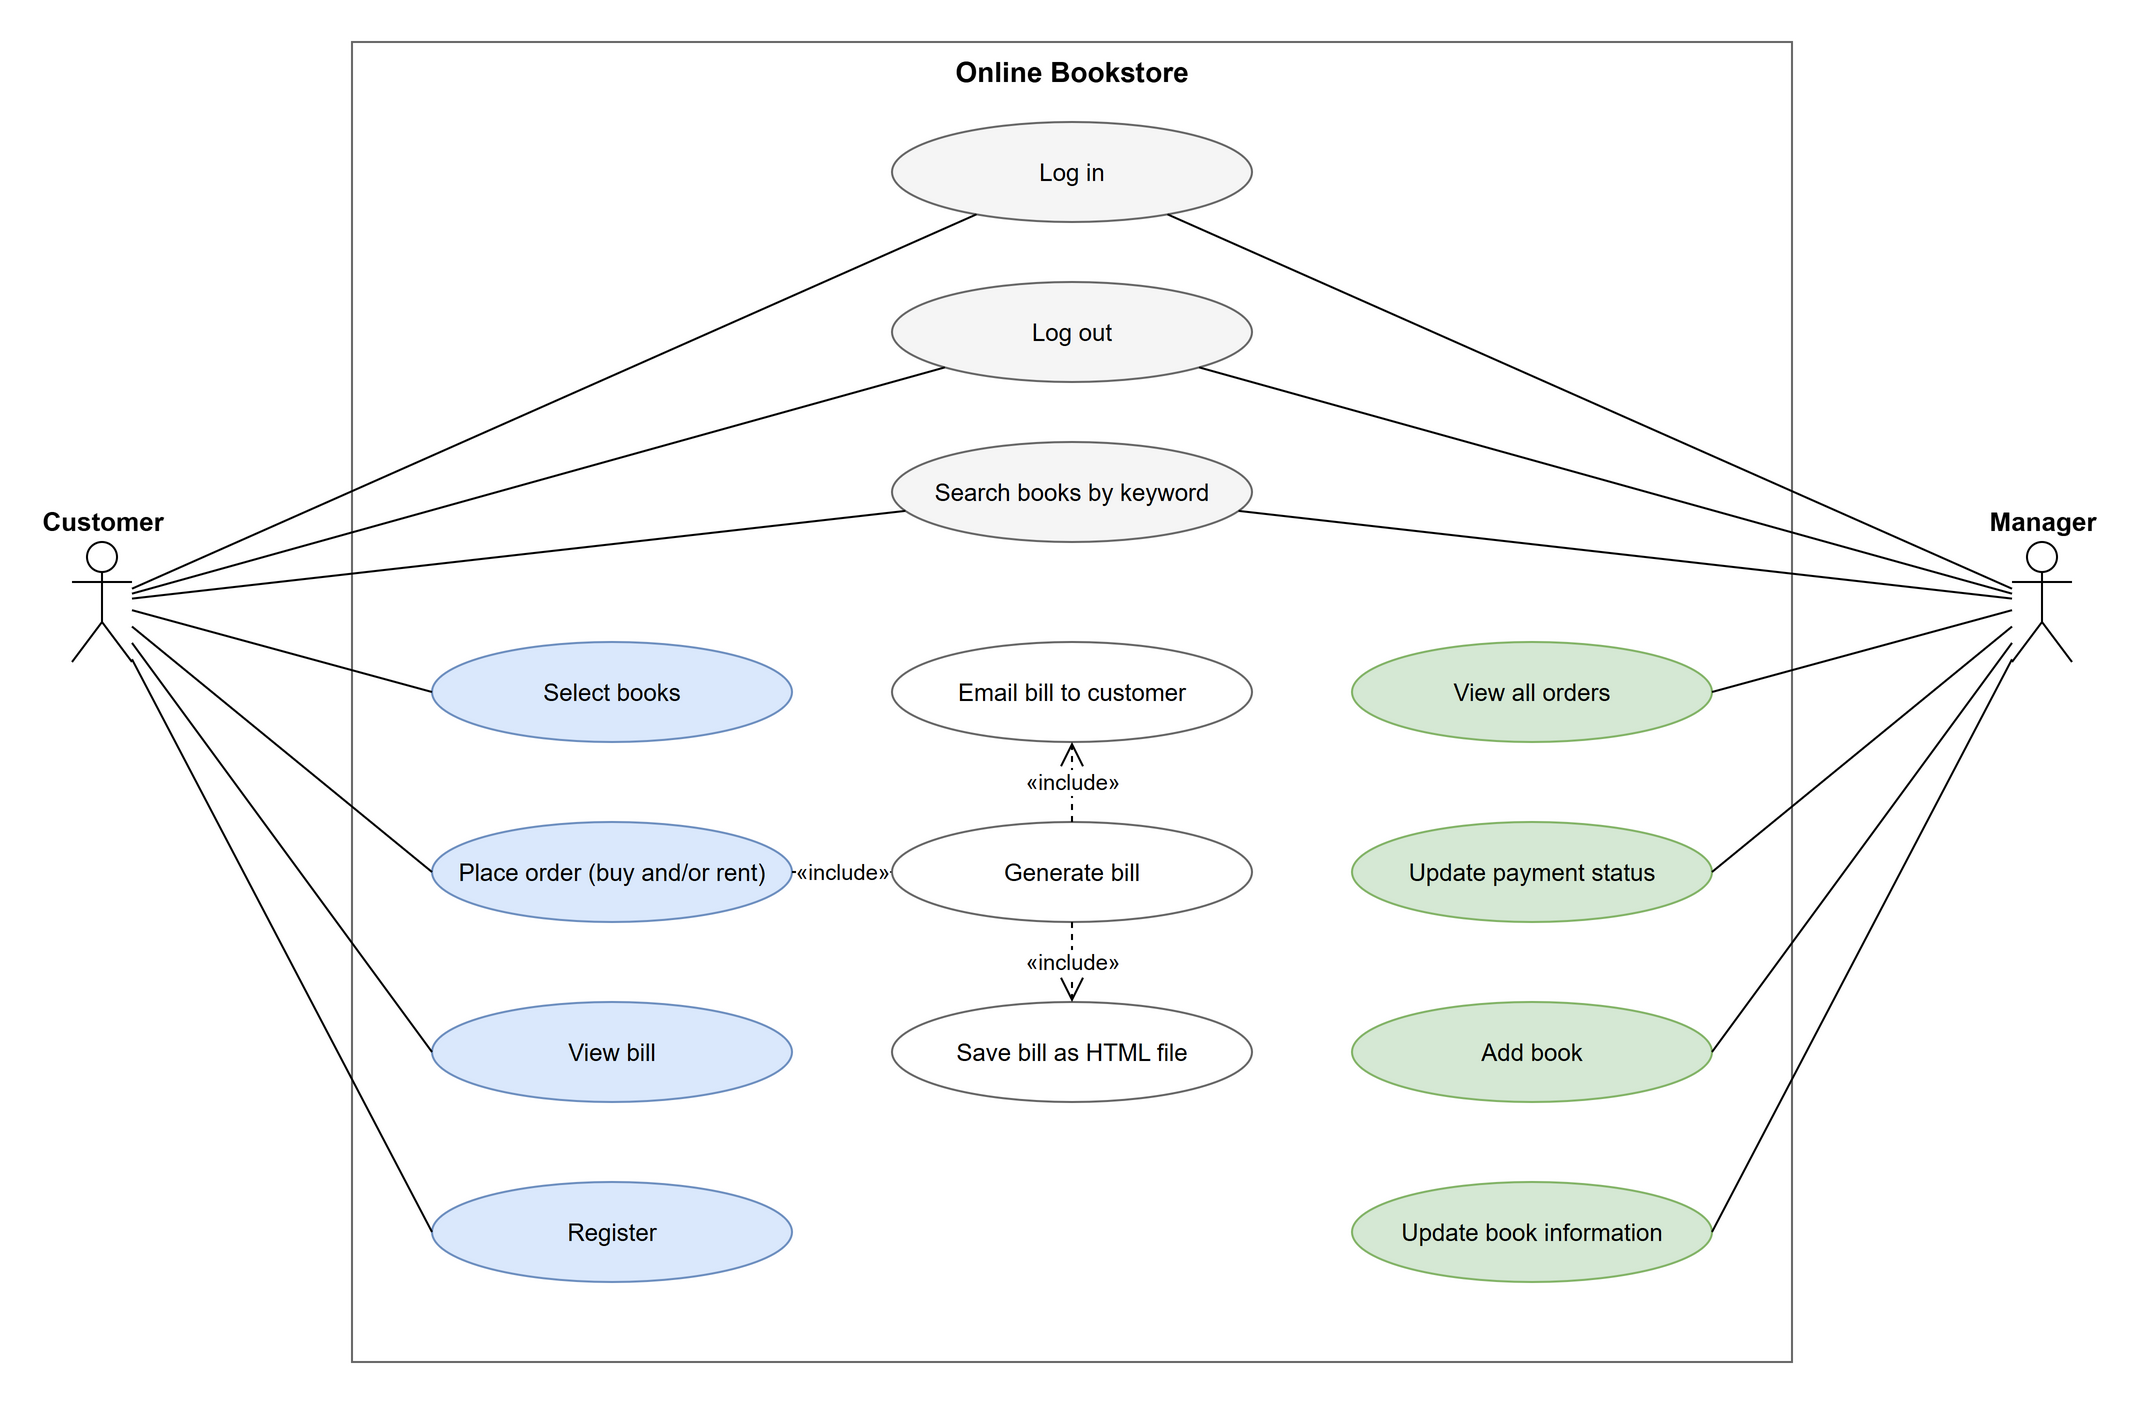
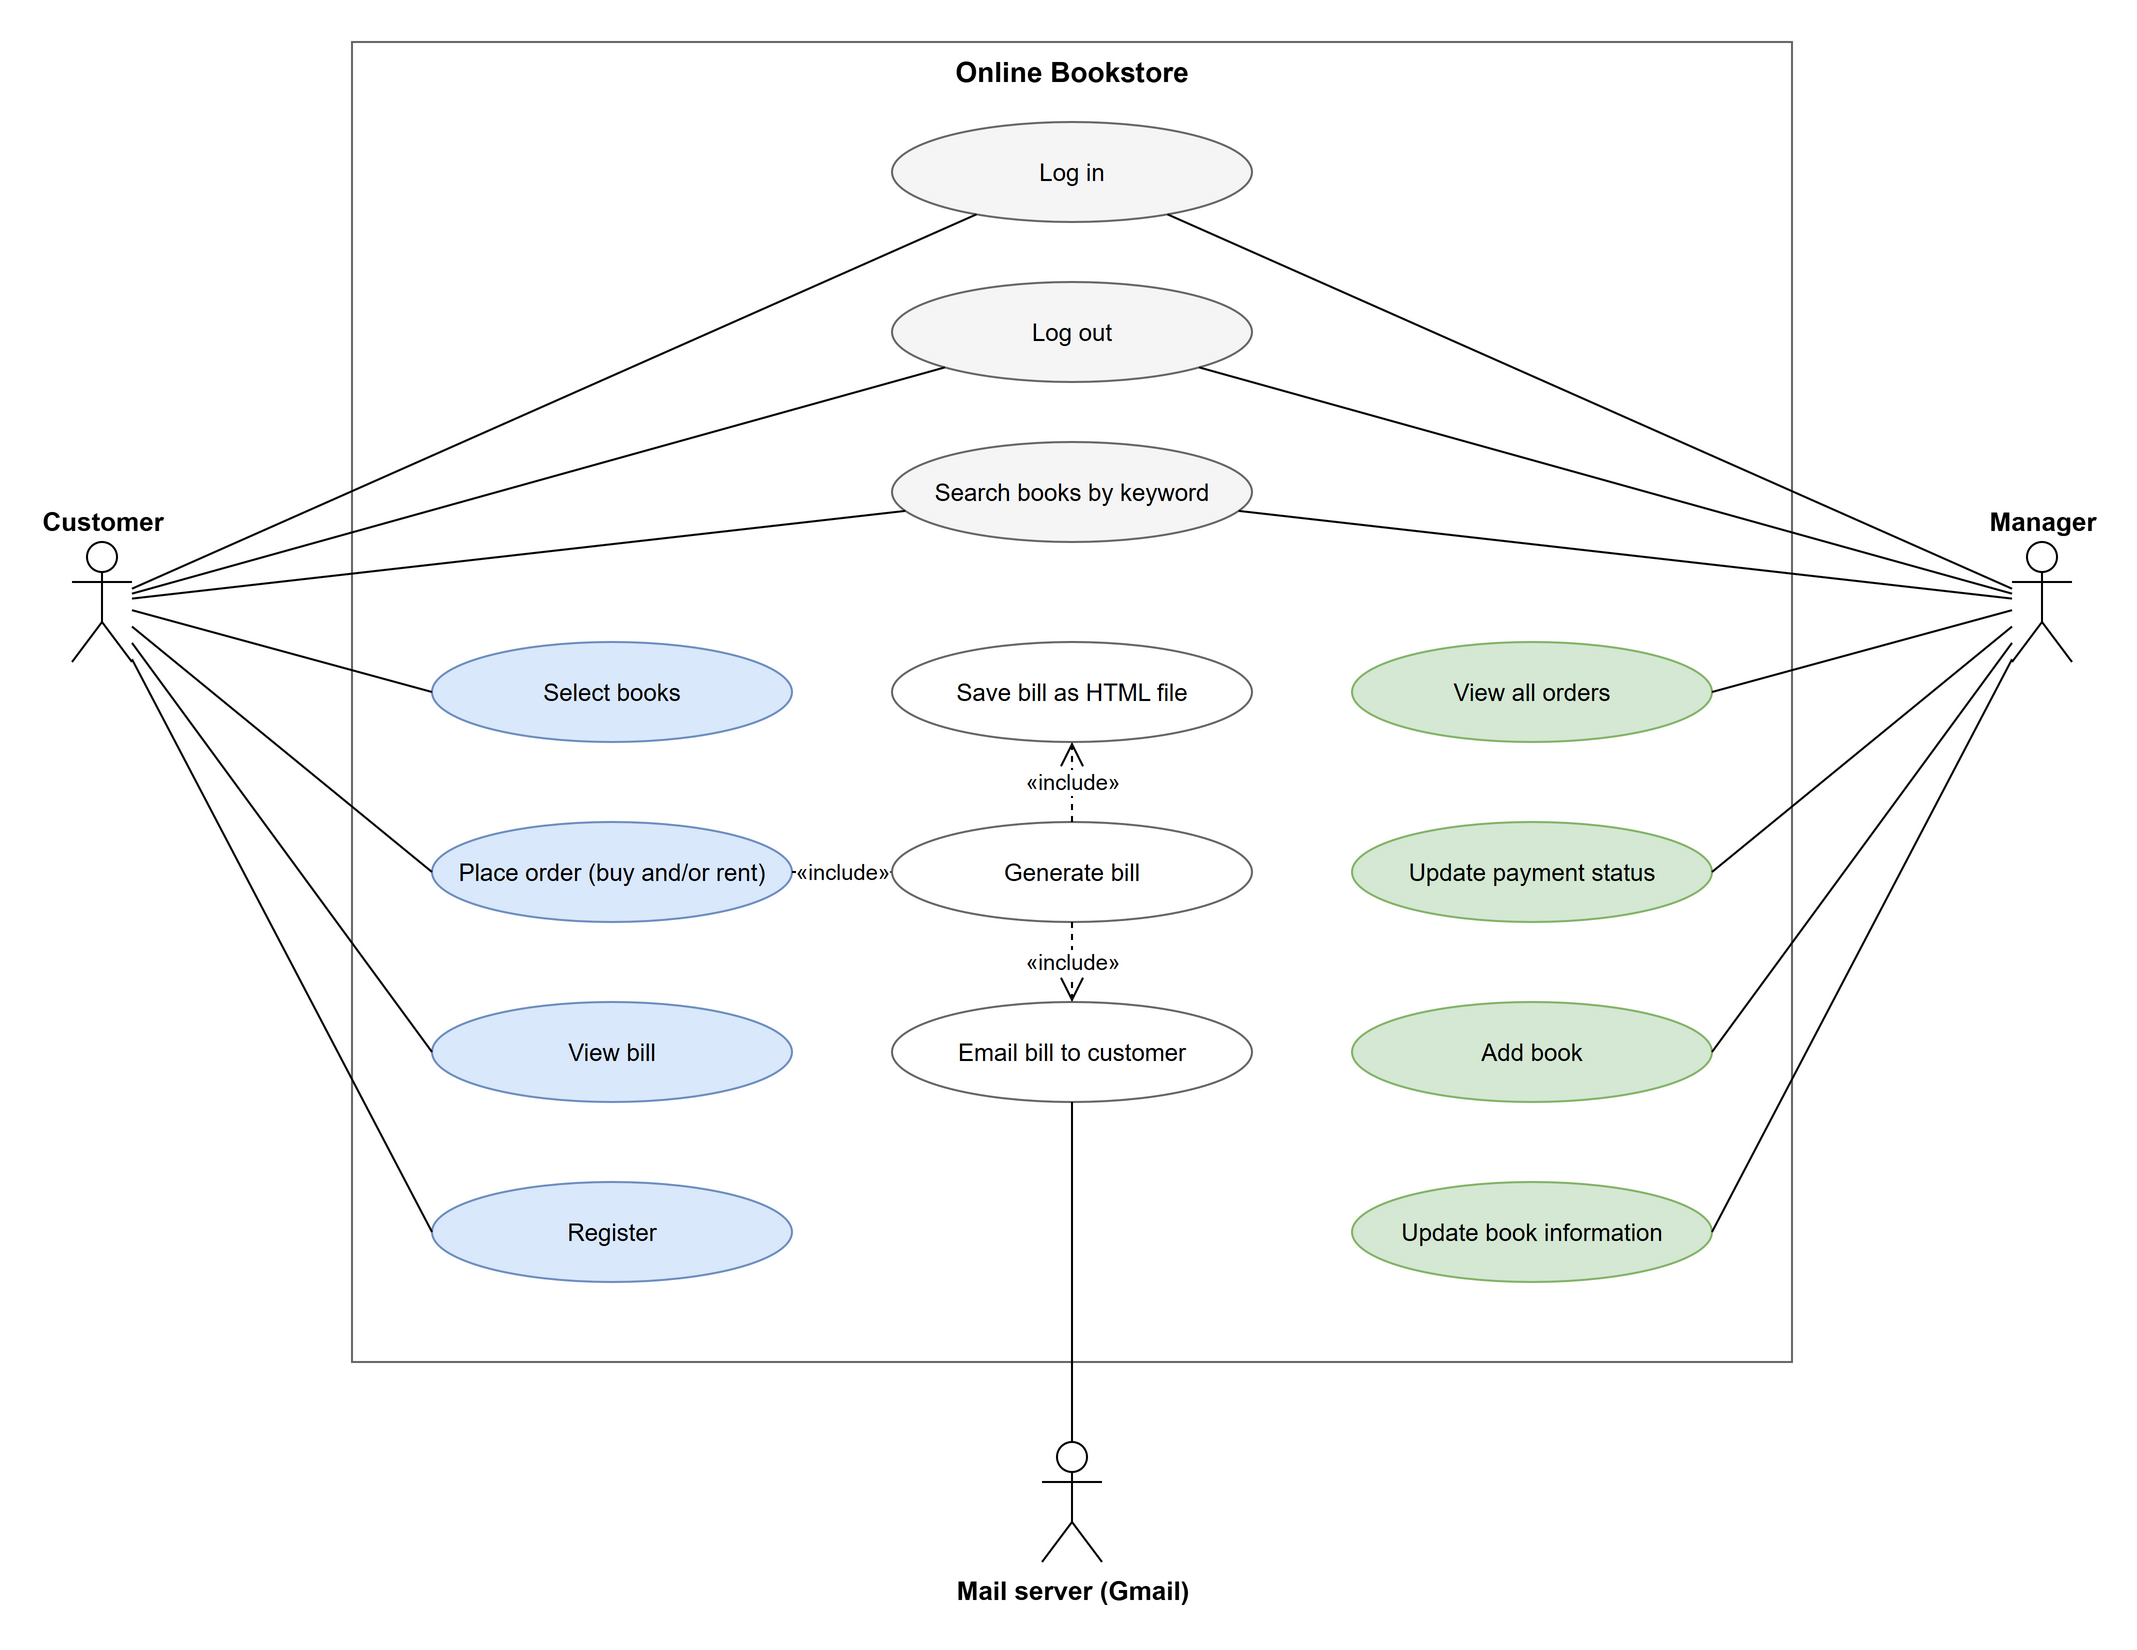
Define the actors and add the mail server to the use case diagram
Manager is the only administrative actor (the PRD has two roles), and
the bookstore is the system boundary, not an actor. Gmail is an
external secondary actor for emailing the bill. Record that Smart App
Control is the cause of P-002 and P-003 and why it is left on.

diff --git a/docs/02-design/use-cases.md b/docs/02-design/use-cases.md
@@ -8,6 +8,22 @@
 
 Source: [diagrams/use-case.drawio](diagrams/use-case.drawio)
 
+## Actors
+
+An actor is someone or something **outside** the system that uses it or is used by it.
+
+| Actor | Kind | Who or what it is |
+|---|---|---|
+| Customer | Person (primary) | A registered user who searches for books and orders them. Uses the customer app |
+| Manager | Person (primary) | The bookstore's own staff member who runs it: manages books, sees orders, records payments. Uses the management app |
+| Mail server (Gmail) | External system (secondary) | Delivers the bill email. The bookstore system calls it; it never starts anything |
+
+**The bookstore is not an actor.** "Online Bookstore" is the system itself: the box in the diagram that contains the use cases. The business is represented by its Manager.
+
+**Manager and admin are the same actor.** The PRD defines exactly two user roles, Customer and Manager, and describes the Manager as "an administrative user responsible for business operations". There is no separate administrator, and nothing in the requirements (such as creating manager accounts from inside an app) that would need one. Manager accounts are created by the seed script.
+
+Generate bill, Save bill as HTML file, and Email bill to customer have no person attached: they are steps the system performs as part of Place order, which is why they are joined to it with «include».
+
 ## Summary
 
 | ID | Use case | Actor | Requirement |
@@ -20,7 +36,7 @@ Source: [diagrams/use-case.drawio](diagrams/use-case.drawio)
 | [UC6](#uc6--place-order) | Place order (buy and/or rent) | Customer | FR7 |
 | [UC7](#uc7--generate-bill) | Generate bill | System (part of UC6) | FR8 |
 | [UC8](#uc8--save-bill-as-html-file) | Save bill as HTML file | System (part of UC7) | FR9 |
-| [UC9](#uc9--email-bill-to-customer) | Email bill to customer | System (part of UC7) | FR10 (extra credit) |
+| [UC9](#uc9--email-bill-to-customer) | Email bill to customer | System (part of UC7), with the Mail server | FR10 (extra credit) |
 | [UC10](#uc10--view-bill) | View bill | Customer | FR8 |
 | [UC11](#uc11--view-all-orders) | View all orders | Manager | FR12 |
 | [UC12](#uc12--update-payment-status) | Update payment status | Manager | FR13 |
@@ -129,12 +145,12 @@ Source: [diagrams/use-case.drawio](diagrams/use-case.drawio)
 
 | | |
 |---|---|
-| **Actor** | System (order-service), as part of UC7 |
+| **Actor** | System (order-service), as part of UC7. Secondary actor: Mail server (Gmail) |
 | **Goal** | Send the bill to the customer automatically |
 | **Requirements** | FR10 (extra credit) |
 | **Before** | The bill has been saved. The customer account has an email address. |
-| **Main flow** | 1. order-service sends an email to the customer's address with the bill as its content. |
-| **Other flows** | **1a.** The email cannot be sent: the order is still completed (the bill file exists) and the failure is written to the service log. |
+| **Main flow** | 1. order-service hands an email, addressed to the customer and with the bill as its content, to the mail server.<br>2. The mail server delivers it. |
+| **Other flows** | **1a.** The mail server cannot be reached or refuses the email: the order is still completed (the bill file exists) and the failure is written to the service log. |
 | **After** | The customer has the bill in their inbox. |
 
 ### UC10 — View bill

diff --git a/docs/05-setup/environment.md b/docs/05-setup/environment.md
@@ -14,7 +14,7 @@ What is installed on the development machine, how it got there, and how to check
 | Java JDK (Eclipse Temurin) | 21.0.13 | user-service | `winget install EclipseAdoptium.Temurin.21.JDK` | `java -version` |
 | Maven | 3.9.9 | Building user-service | Downloaded from archive.apache.org (checksum verified), unpacked to `%USERPROFILE%\develop`, added to PATH | `mvn -version` |
 | MongoDB Server | 9.0.4 | Books | `winget install MongoDB.Server` (service `MongoDB`, port 27017, this machine only) | see below |
-| MongoDB Shell | 2.14.1 | Optional: looking at the data by hand | `winget install MongoDB.Shell` | blocked, see P-003 |
+| MongoDB Shell | 2.14.1 | Optional: looking at the data by hand | `winget install MongoDB.Shell` | blocked by Smart App Control, see P-003 |
 | Flutter SDK | 3.50.0 (Dart 3.14) | Both desktop apps | Cloned from github.com/flutter/flutter (stable) to `%USERPROFILE%\develop\flutter`, added to PATH | `flutter doctor` |
 | Visual Studio 2022 Build Tools | 17.14 | Compiling Flutter Windows apps | `winget install Microsoft.VisualStudio.2022.BuildTools` with the C++ desktop workload | `flutter doctor` |
 | draw.io Desktop | 32.6 | All diagrams | `winget install JGraph.Draw` | — |
@@ -57,3 +57,13 @@ The `bookstore` database is not created yet, because that needs the MySQL root p
 ## Starting on a fresh terminal
 
 PATH changes only apply to terminals opened after the install. If `flutter`, `mvn`, or `java` is "not recognized", close and reopen the terminal (and restart VS Code).
+
+## Windows Smart App Control
+
+Smart App Control is **on** on this machine. It blocks programs that are unsigned and unknown to Microsoft. So far it has blocked the MongoDB shell (P-003) and, once, a Flutter build tool (P-002).
+
+It is left on. Turning it off is permanent: Windows only lets it be re-enabled by reinstalling Windows. If something this project really needs gets blocked:
+
+1. Try again once (this fixed P-002).
+2. Use a signed alternative (for looking at MongoDB data: MongoDB Compass, or the MongoDB extension for VS Code).
+3. Only then consider switching it off, in Windows Security → App & browser control → Smart App Control. This is the machine owner's decision.

diff --git a/docs/03-problems/problem-log.md b/docs/03-problems/problem-log.md
@@ -91,7 +91,7 @@ On a freshly installed toolchain, a first-run failure that mentions a security p
 After installing MongoDB Shell, running `mongosh` failed with "An Application Control policy has blocked this file". MongoDB Server itself installed and runs normally.
 
 **Cause**
-The same Windows protection as in P-002: it can refuse to run a newly installed program it does not yet trust. Unlike P-002, a second try did not help here.
+Windows **Smart App Control** is turned on on this machine. It blocks programs that are not digitally signed and that it does not recognize, and `mongosh.exe` is not signed (checked: its signature status is "NotSigned"). This is also what caused P-002. Unlike P-002, a second try did not help here.
 
 **What we tried**
 1. Ran `mongosh` after the install: blocked.
@@ -99,6 +99,9 @@ The same Windows protection as in P-002: it can refuse to run a newly installed 
 
 **Solution**
 The shell is only a convenience for looking at data by hand, so it is not needed. The seed script and the services use the Python driver (`pymongo`), which works: the 15 books were loaded and searched through it. No security setting was changed.
+
+**Why it was not switched off**
+Smart App Control can be turned off in Windows Security, but Windows does not allow turning it back on without reinstalling Windows. That is too high a price for an optional tool.
 
 **Lesson**
 Depend on as few tools as possible. The project needs the database server and a driver; a separate shell is optional, and MongoDB Compass (a graphical viewer) is an alternative if looking at the data by hand becomes necessary.

diff --git a/CHANGELOG.md b/CHANGELOG.md
@@ -14,6 +14,7 @@ Work towards v0.3.0 (milestone M3, Backend services).
 
 ### Changed
 - `CatalogScreen` renamed `SearchScreen`, to match the class diagram
+- Use case diagram: the mail server (Gmail) added as an external actor; actors defined in `use-cases.md`
 
 ## v0.2.0 — 2026-11-13 — Design (M2)
 
